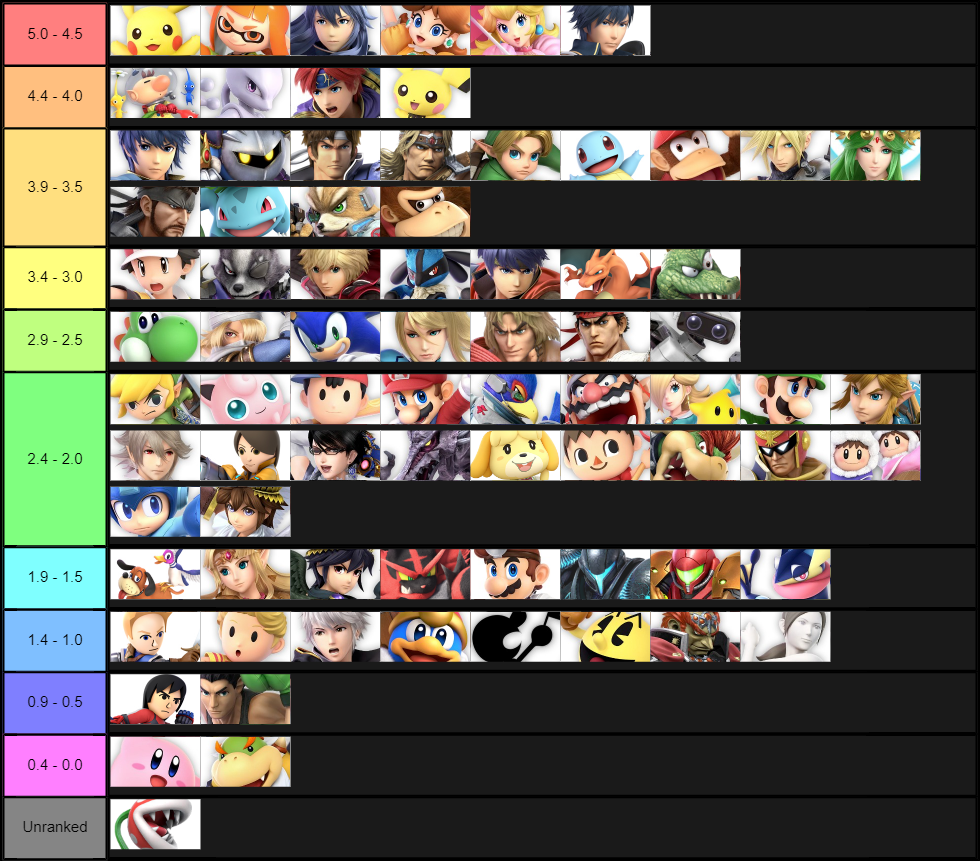
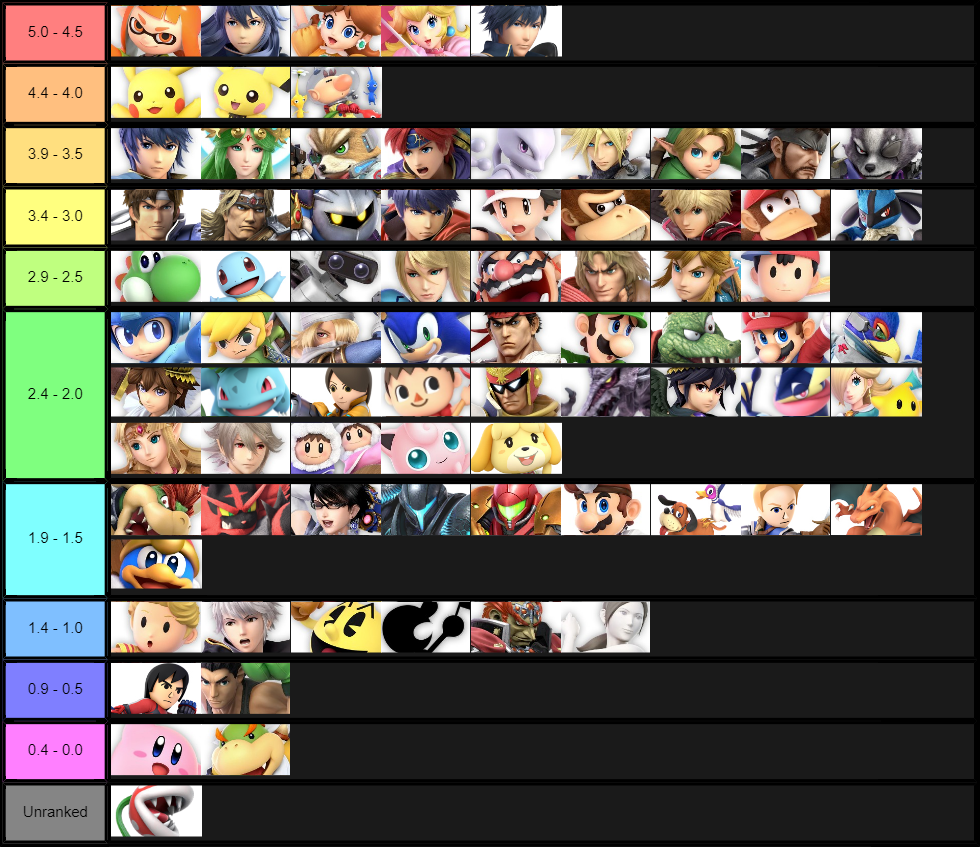
New Ultimate Tierlist

diff --git a/commands/tierlist.js b/commands/tierlist.js
@@ -40,7 +40,7 @@ module.exports = {
             case 'ultimate':
             case 'u':
             case '5':
-                message.channel.send('This tier list is not an official tier list. It was made by averaging the tier lists from pro players. Last updated: 12/26/2018', {file: 'tierlists/ultimatetl.png'});
+                message.channel.send('This tier list is not an official tier list. It was made by averaging the tier lists from pro players. Last updated: 01/02/2019', {file: 'tierlists/ultimatetl.png'});
                 break;
             default:
                 message.channel.send('You didn\'t specify a Smash game! (64/melee/brawl/brawlminus/projectm/4/ultimate)');
